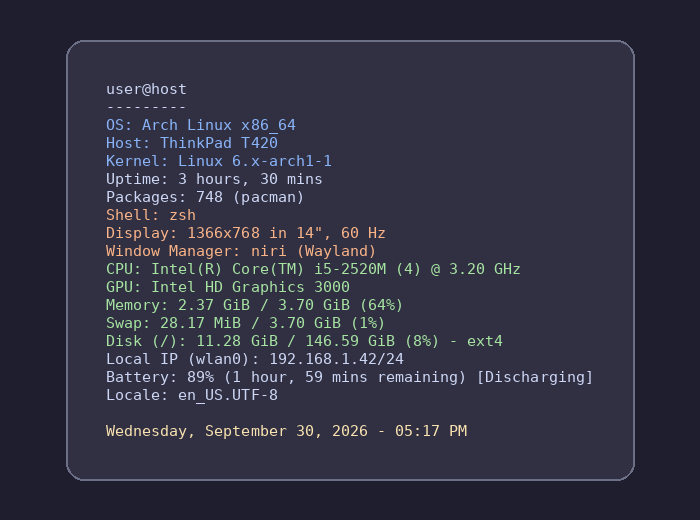
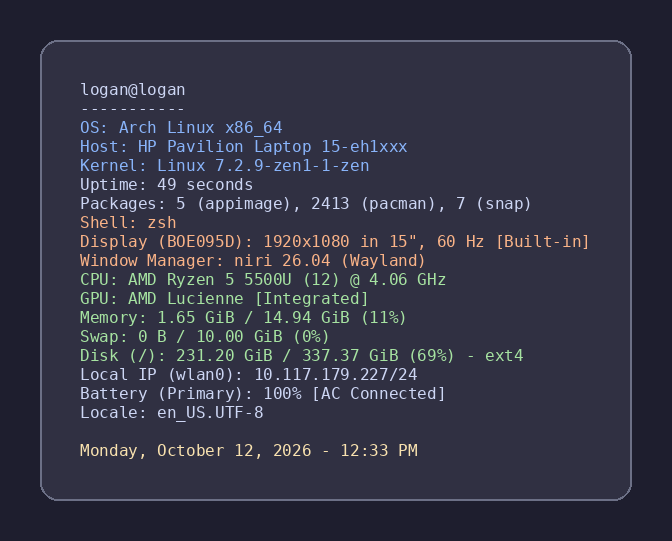
wallpaper: real niri frame instead of sample values, in both READMEs
Claude-Session: https://claude.ai/code/session_01PSzkdckEqA8UiAsfxtaSyg

diff --git a/linux/wallpaper/README.md b/linux/wallpaper/README.md
@@ -4,9 +4,9 @@ A live system-info wallpaper for [niri](https://github.com/YaLTeR/niri) (and oth
 
 This is the Wayland/niri port of [`kde/neofetch_wallpaper_kde.py`](kde/neofetch_wallpaper_kde.py) (see [KDE version](#kde-version) below), which depended on KDE's `plasma-apply-wallpaperimage`.
 
-![example](example.png)
+<p align="center"><img src="example.png" width="80%" alt="The wallpaper on a 1920x1080 screen: fastfetch output in a rounded card on a dark Catppuccin background"></p>
 
-The screenshot uses sample values.
+A real frame from an HP Pavilion running niri 26.04, 49 seconds after boot.
 
 ## Requirements
 

diff --git a/README.md b/README.md
@@ -44,7 +44,7 @@ task calls for them. Each one is self-contained, with a README for people.
     </td>
     <td width="50%" valign="top">
       <img src=".github/images/wallpaper-card.png" alt="The live fastfetch wallpaper on niri">
-      <br><sub><b>linux/wallpaper:</b> live system-info wallpaper on niri (sample values).</sub>
+      <br><sub><b>linux/wallpaper:</b> live system-info wallpaper, a real frame from my laptop on niri.</sub>
     </td>
   </tr>
 </table>
